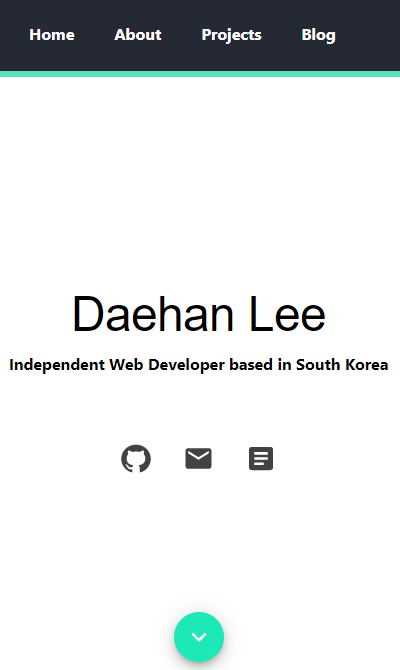
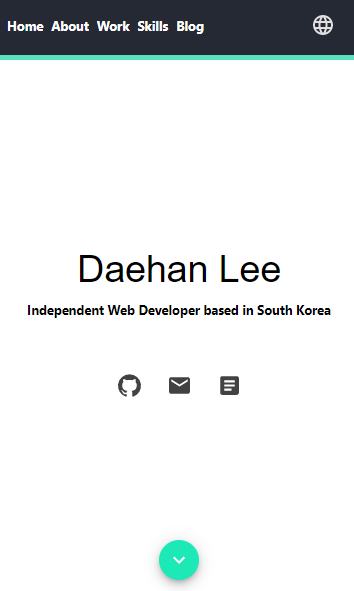
chore: update text

diff --git a/client/src/components/project/Project.tsx b/client/src/components/project/Project.tsx
@@ -1,5 +1,4 @@
 import React, { FC, useContext } from 'react';
-import { RefProps } from '../../models';
 import { BoxWrapper, BoxHeader } from '../common';
 import Divider from '@mui/material/Divider';
 import ProjectPortfolio from './ProjectPortfolio';
@@ -21,24 +20,22 @@ const CustomeDivider = () => {
     );
 };
 
-const Project: FC<RefProps> = ({ refObject }) => {
+const Project: FC = () => {
     const {
         dispatch: { translate },
     } = useContext(LangContext);
 
     return (
-        <div ref={refObject}>
-            <BoxWrapper backgroundColor="primary.800">
-                <BoxHeader title={translate('project')} color={'primary.contrastText'} divierColor={'primary.contrastText'} />
-                <ProjectPatent />
-                <CustomeDivider />
-                <ProjectPortfolio />
-                <CustomeDivider />
-                <ProjectFurfellasApp />
-                <CustomeDivider />
-                <ProjectEnglishApp />
-            </BoxWrapper>
-        </div>
+        <BoxWrapper backgroundColor="primary.800">
+            <BoxHeader title={translate('project')} color={'primary.contrastText'} divierColor={'primary.contrastText'} />
+            <ProjectPatent />
+            <CustomeDivider />
+            <ProjectPortfolio />
+            <CustomeDivider />
+            <ProjectFurfellasApp />
+            <CustomeDivider />
+            <ProjectEnglishApp />
+        </BoxWrapper>
     );
 };
 export default Project;

diff --git a/client/src/components/project/ProjectPortfolio.tsx b/client/src/components/project/ProjectPortfolio.tsx
@@ -22,20 +22,16 @@ const ProjectPortfolio: FC = () => {
                     justifyContent: 'center',
                 }}
             >
-                <ProjectImageBox
-                    link={process.env.REACT_APP_PROJECT_PORTFOLIO_LINK}
-                    src={`${process.env.PUBLIC_URL}/images/${process.env.REACT_APP_PROJECT_PORTFOLIO_IMAGE}`}
-                    alt={translate('portfolioName')}
-                />
+                <ProjectImageBox src={`${process.env.PUBLIC_URL}/images/${process.env.REACT_APP_PROJECT_PORTFOLIO_IMAGE}`} alt={translate('portfolioName')} />
                 <Box sx={{ padding: { mobile: 1, tablet: 2 } }}>
                     <ProjectFeatureBox
                         name={'portfolio'}
-                        title={'Front'}
+                        title={'Front-end'}
                         features={[translate('portfolioFrontFeatureOne'), translate('portfolioFrontFeatureTwo'), translate('portfolioFrontFeatureThree')]}
                     />
                     <ProjectFeatureBox
                         name={'portfolio'}
-                        title={'Back'}
+                        title={'Back-end'}
                         features={[translate('portfolioBackFeatureOne'), translate('portfolioBackFeatureTwo'), translate('portfolioBackFeatureThree'), translate('portfolioBackFeatureFour')]}
                     />
                     <Link href={process.env.REACT_APP_PROJECT_PORTFOLIO_GITHUB}>

diff --git a/client/src/App.tsx b/client/src/App.tsx
@@ -19,7 +19,6 @@ function App() {
     const homeRef = useRef<HTMLDivElement>(null);
     const aboutRef = useRef<HTMLDivElement>(null);
     const workRef = useRef<HTMLDivElement>(null);
-    const projectRef = useRef<HTMLDivElement>(null);
     const blogRef = useRef<HTMLDivElement>(null);
     const skillRef = useRef<HTMLDivElement>(null);
 
@@ -31,9 +30,6 @@ function App() {
                 break;
             case 'company':
                 targetRef = workRef;
-                break;
-            case 'project':
-                targetRef = projectRef;
                 break;
             case 'skill':
                 targetRef = skillRef;
@@ -59,7 +55,7 @@ function App() {
                     <Home refObject={homeRef} handleScroll={handleScrollClick} />
                     <About refObject={aboutRef} />
                     <Work refObject={workRef} />
-                    <Project refObject={projectRef} />
+                    <Project />
                     <Skill refObject={skillRef} />
                     <Blog refObject={blogRef} />
                 </main>

diff --git a/client/src/components/project/ProjectEnglishApp.tsx b/client/src/components/project/ProjectEnglishApp.tsx
@@ -29,7 +29,7 @@ const ProjectEnglishApp: FC = () => {
                 <Box sx={{ padding: { mobile: 1, tablet: 2 } }}>
                     <ProjectFeatureBox
                         name={'englishApp'}
-                        title={'Front'}
+                        title={'Front-end'}
                         features={[translate('englihAppFrontFeatureOne'), translate('englihAppFrontFeatureTwo'), translate('englihAppFrontFeatureThree')]}
                     />
                     <Link href={process.env.REACT_APP_PROJECT_ENGLISH_APP_GITHUB_FRONT}>
@@ -37,7 +37,7 @@ const ProjectEnglishApp: FC = () => {
                     </Link>
                     <ProjectFeatureBox
                         name={'englishApp'}
-                        title={'Back'}
+                        title={'Back-end'}
                         features={[translate('englihAppBackFeatureOne'), translate('englihAppBackFeatureTwo'), translate('englihAppBackFeatureThree')]}
                     />
                     <Link href={process.env.REACT_APP_PROJECT_ENGLISH_APP_GITHUB_BACK}>

diff --git a/client/src/components/project/ProjectFurfellasApp.tsx b/client/src/components/project/ProjectFurfellasApp.tsx
@@ -28,13 +28,13 @@ const ProjectFurfellasApp: FC = () => {
                     alt={translate('furfellasAppName')}
                 />
                 <Box sx={{ padding: { mobile: 1, tablet: 2 } }}>
-                    <ProjectFeatureBox name={'furfellasApp'} title={'Front'} features={[translate('furfellasAppFrontFeatureOne'), translate('furfellasAppFrontFeatureTwo')]} />
+                    <ProjectFeatureBox name={'furfellasApp'} title={'Front-end'} features={[translate('furfellasAppFrontFeatureOne'), translate('furfellasAppFrontFeatureTwo')]} />
                     <Link href={process.env.REACT_APP_PROJECT_FURFELLAS_APP_GITHUB_FRONT}>
                         <GitHubIcon />
                     </Link>
                     <ProjectFeatureBox
                         name={'furfellasApp'}
-                        title={'Back'}
+                        title={'Back-end'}
                         features={[
                             translate('furfellasAppBackFeatureOne'),
                             translate('furfellasAppBackFeatureTwo'),

diff --git a/client/src/components/project/ProjectPatent.tsx b/client/src/components/project/ProjectPatent.tsx
@@ -25,7 +25,7 @@ const ProjectPatent: FC = () => {
                 <Box sx={{ padding: { mobile: 1, tablet: 2 } }}>
                     <ProjectFeatureBox
                         name={'patent'}
-                        title={'Back'}
+                        title={'Back-end'}
                         features={[
                             translate('patentBackFeatureOne'),
                             translate('patentBackFeatureTwo'),

diff --git a/client/src/components/Header.tsx b/client/src/components/Header.tsx
@@ -8,7 +8,7 @@ import MenuItem from '@mui/material/MenuItem';
 import { LangMenu } from './common';
 import { LangContext } from '../context';
 
-const pages = ['home', 'about', 'company', 'project', 'skill', 'blog'];
+const pages = ['home', 'about', 'company', 'skill', 'blog'];
 
 interface HeaderProps {
     handleScroll: (target: string) => void;
